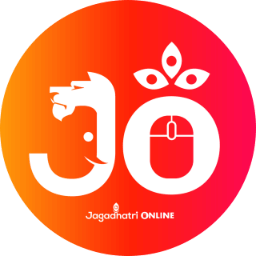
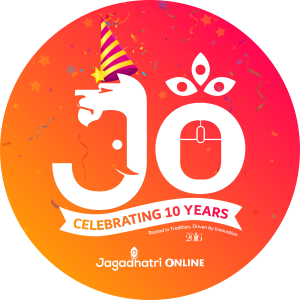
feat(homepage): add 10th anniversary celebration elements and styling
Introduce new UI components and styling to celebrate the 10th anniversary of the Jagadhatri Puja portal. This includes an animated confetti icon, celebratory text, and a dedicated section highlighting the journey and achievements of the platform. The background gradient and additional visual elements enhance the festive appearance of the homepage.

diff --git a/src/app/page.tsx b/src/app/page.tsx
@@ -25,6 +25,7 @@ import {
 import { cn, formatDate, getDateByIndex } from "@/utils/functions";
 import { paytoneOne } from "@/fonts";
 import { getModel } from "@/utils/fetch";
+import { PiConfettiThin } from "react-icons/pi";
 
 const imagesPath = [
     '20241107-044545.jpg',
@@ -209,21 +210,43 @@ export default async function Home() {
             <HeroSlider>
                 <div className="hero-content text-center text-white-content text-white p-0 z-2">
                     <div className="pt-36 pb-28">
-                        <h1 className={`mb-3 text-2xl md:text-4xl lg:text-6xl ${paytoneOne.className}`}>
-                            CHANDANNAGAR <br /> JAGADHATRI PUJA
-                        </h1>
-                        <p className="mb-8">Explore the Grand Festival of Chandannagar.</p>
-                        <Link
-                            href={`/jagadhatri-puja/${year}`}
-                            className="btn bg-yellow-500 border-2 border-yellow-500 uppercase py-3 px-6 h-auto shadow-none rounded-md hover:bg-transparent hover:border-yellow-500 hover:text-yellow-500"
-                        >
-                            Jagadhatri Puja {btnYear}
-                        </Link>
+                        <div className="inline-block mb-10">
+                            <div className="group relative flex items-center justify-center gap-3 px-5 py-2.5 rounded-full bg-yellow-500/10 backdrop-blur-md border border-white/20 text-sm hover:bg-yellow-500/20 transition-all duration-300">
+                                {/* Animated confetti icon */}
+                                <PiConfettiThin className="animate-bounce text-lg" />
+                                
+                                {/* Celebration text */}
+                                <span className="font-medium">
+                                    Celebrating 10 Years
+                                </span>
+                                
+                                {/* Animated dots */}
+                                <div className="flex space-x-1">
+                                    <span className="w-1.5 h-1.5 rounded-full bg-amber-400 animate-ping"></span>
+                                    {/* <span className="w-1.5 h-1.5 rounded-full bg-yellow-400 animate-pulse"></span>
+                                    <span className="w-1.5 h-1.5 rounded-full bg-amber-400 animate-bounce"></span> */}
+                                </div>
+                            </div>
+                        </div>
+
+                        <div className="relative">
+                            <h1 className={`mb-3 text-2xl md:text-4xl lg:text-6xl ${paytoneOne.className}`}>
+                                CHANDANNAGAR <br /> JAGADHATRI PUJA
+                            </h1>
+                            <p className="mb-8">Explore the Grand Festival of Chandannagar.</p>
+                            <Link
+                                href={`/jagadhatri-puja/${year}`}
+                                className="btn bg-yellow-500 border-2 border-yellow-500 uppercase py-3 px-6 h-auto shadow-none rounded-md hover:bg-transparent hover:border-yellow-500 hover:text-yellow-500"
+                            >
+                                Jagadhatri Puja {btnYear}
+                            </Link>
+                        </div>
                     </div>
                 </div>
             </HeroSlider>
+            
             <Section
-                className="bg-gray-100"
+                className="bg-gradient-to-b from-yellow-500/10 to-transparent"
                 title="Welcome to the Online Puja Portal"
                 description="Jagadhatri Online"
             >
@@ -234,6 +257,32 @@ export default async function Home() {
                         Location, Photos & Videos of various Jagadhatri Pujas of Chandannagar. It will guide people who
                         want directions to go Pandal Hopping around the city, looking for the best Pujas in town.
                     </p>
+                    <div className="relative py-8 px-6 bg-gradient-to-r from-yellow-500/5 via-yellow-500/10 to-yellow-500/5 rounded-2xl border border-yellow-500/20">
+                        <div className="absolute -top-3 left-1/2 transform -translate-x-1/2 truncate">
+                            <span className="inline-block px-4 py-1 bg-yellow-500 text-white text-sm font-medium rounded-full">
+                                10 Years of Digital Heritage
+                            </span>
+                        </div>
+                        <div className="flex flex-col items-center gap-4">
+                            <p className="md:text-lg text-gray-700">
+                                Since 2016, we've been documenting the grandeur of Chandannagar's Jagadhatri Puja, preserving its rich cultural heritage for future generations. As we celebrate our 10th anniversary in 2025, we remain committed to showcasing the beauty and tradition of this magnificent festival for many more years to come.
+                            </p>
+                            <div className="flex flex-wrap justify-center gap-4 text-center">
+                                <div className="px-6 py-3 bg-white rounded-xl shadow-sm">
+                                    <div className="text-2xl font-bold text-yellow-600">2016</div>
+                                    <div className="text-sm text-gray-600">Journey Began</div>
+                                </div>
+                                <div className="px-6 py-3 bg-white rounded-xl shadow-sm">
+                                    <div className="text-2xl font-bold text-yellow-600">2025</div>
+                                    <div className="text-sm text-gray-600">10th Anniversary</div>
+                                </div>
+                                <div className="px-6 py-3 bg-white rounded-xl shadow-sm">
+                                    <div className="text-2xl font-bold text-yellow-600">Beyond</div>
+                                    <div className="text-sm text-gray-600">Continuing Legacy</div>
+                                </div>
+                            </div>
+                        </div>
+                    </div>
                     <div>
                         <Link
                             href="/achievements"
